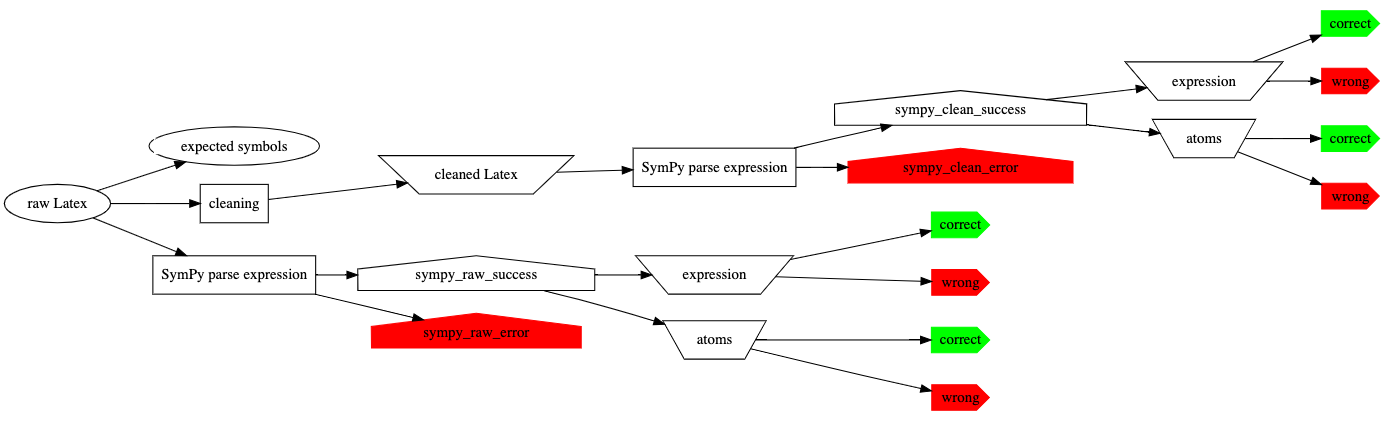
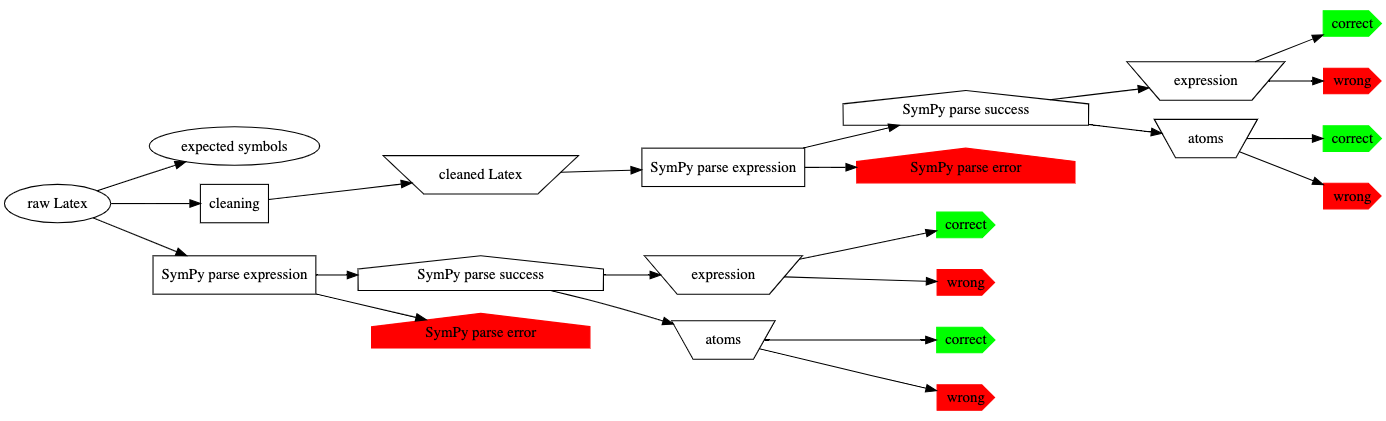
beter picture

diff --git a/decision_tree.README.md b/decision_tree.README.md
@@ -1,4 +1,5 @@
 
 from
 
-https://dreampuf.github.io/GraphvizOnline/#digraph%20G%20%7B%0A%20%20%20%20rankdir%3D%22LR%22%3B%0A%0A%20%20%22raw%20Latex%22%20%5Bshape%3D%22oval%22%5D%3B%20%2F%2F%20manual%0A%20%20%22expected%20symbols%22%20%5Bshape%3D%22oval%22%5D%3B%20%2F%2F%20manual%0A%20%20%0A%20%20%22raw%20Latex%22%20-%3E%20%22expected%20symbols%22%3B%0A%20%20%0A%20%20%22cleaning%22%20%5Bshape%3D%22rectangle%22%5D%3B%20%2F%2F%20action%0A%20%20%0A%20%20%22raw%20Latex%22%20-%3E%20%22cleaning%22%3B%0A%20%0A%20%20%22cleaned%20Latex%22%20%5Bshape%3D%22invtrapezium%22%5D%3B%20%2F%2F%20intermediate%20file%0A%20%20%0A%20%20%22cleaning%22%20-%3E%20%22cleaned%20Latex%22%3B%0A%20%20%0A%20%20sympy_parse_raw%20%5Bshape%3D%22rectangle%22%20label%3D%22SymPy%20parse%20expression%22%5D%3B%20%2F%2F%20action%0A%20%20%0A%20%20%22raw%20Latex%22%20-%3E%20sympy_parse_raw%3B%0A%0A%20%20sympy_parse_clean%20%5Bshape%3D%22rectangle%22%20label%3D%22SymPy%20parse%20expression%22%5D%3B%20%2F%2F%20action%0A%20%0A%20%20%22cleaned%20Latex%22%20-%3E%20%20sympy_parse_clean%3B%0A%0A%20%20sympy_raw_success%20%5Bshape%3D%22house%22%5D%3B%0A%20%20sympy_raw_error%20%5Bshape%3D%22house%22%20style%3Dfilled%20color%3Dred%5D%3B%0A%0A%20%20sympy_parse_raw%20-%3E%20sympy_raw_success%3B%0A%20%20sympy_parse_raw%20-%3E%20sympy_raw_error%3B%0A%0A%20%20sympy_clean_success%20%5Bshape%3D%22house%22%5D%3B%0A%20%20sympy_clean_error%20%5Bshape%3D%22house%22%20style%3Dfilled%20color%3Dred%5D%3B%0A%20%20%0A%20%20sympy_parse_clean%20-%3E%20sympy_clean_success%3B%0A%20%20sympy_parse_clean%20-%3E%20sympy_clean_error%3B%0A%20%20%0A%20%20raw_sympy_expr%20%20%5Blabel%3D%22expression%22%20shape%3D%22invtrapezium%22%5D%3B%20%2F%2F%20intermediate%20file%0A%20%20raw_sympy_atoms%20%20%5Blabel%3D%22atoms%22%20shape%3D%22invtrapezium%22%5D%3B%20%2F%2F%20intermediate%20file%0A%0A%20%20sympy_raw_success%20-%3E%20raw_sympy_expr%3B%0A%20%20sympy_raw_success%20-%3E%20raw_sympy_atoms%3B%0A%0A%20%20clean_sympy_expr%20%20%5Blabel%3D%22expression%22%20shape%3D%22invtrapezium%22%5D%3B%20%2F%2F%20intermediate%20file%0A%20%20clean_sympy_atoms%20%20%5Blabel%3D%22atoms%22%20shape%3D%22invtrapezium%22%5D%3B%20%2F%2F%20intermediate%20file%0A%20%20%0A%20%20sympy_clean_success%20-%3E%20clean_sympy_expr%3B%0A%20%20sympy_clean_success%20-%3E%20clean_sympy_atoms%3B%0A%20%20%0A%20%20sympy_clean_expr_correct%20%5Bshape%3Dcds%20style%3Dfilled%20color%3Dgreen%2C%20label%3D%22correct%22%5D%3B%0A%20%20sympy_clean_expr_wrong%20%5Bshape%3Dcds%20style%3Dfilled%20color%3Dred%2C%20label%3D%22wrong%22%5D%3B%0A%20%0A%20%20clean_sympy_expr%20-%3E%20sympy_clean_expr_correct%3B%0A%20%20clean_sympy_expr%20-%3E%20sympy_clean_expr_wrong%3B%0A%0A%20%20sympy_clean_atoms_correct%20%5Bshape%3Dcds%20style%3Dfilled%20color%3Dgreen%2C%20label%3D%22correct%22%5D%3B%0A%20%20sympy_clean_atoms_wrong%20%5Bshape%3Dcds%20style%3Dfilled%20color%3Dred%2C%20label%3D%22wrong%22%5D%3B%0A%20%0A%20%20clean_sympy_atoms%20-%3E%20sympy_clean_atoms_correct%3B%0A%20%20clean_sympy_atoms%20-%3E%20sympy_clean_atoms_wrong%3B%0A%20%0A%20%20sympy_raw_expr_correct%20%5Bshape%3Dcds%20style%3Dfilled%20color%3Dgreen%2C%20label%3D%22correct%22%5D%3B%0A%20%20sympy_raw_expr_wrong%20%5Bshape%3Dcds%20style%3Dfilled%20color%3Dred%2C%20label%3D%22wrong%22%5D%3B%0A%20%0A%20%20raw_sympy_expr%20-%3E%20sympy_raw_expr_correct%3B%0A%20%20raw_sympy_expr%20-%3E%20sympy_raw_expr_wrong%3B%0A%0A%20%20sympy_raw_atoms_correct%20%5Bshape%3Dcds%20style%3Dfilled%20color%3Dgreen%2C%20label%3D%22correct%22%5D%3B%0A%20%20sympy_raw_atoms_wrong%20%5Bshape%3Dcds%20style%3Dfilled%20color%3Dred%2C%20label%3D%22wrong%22%5D%3B%0A%20%0A%20%20raw_sympy_atoms%20-%3E%20sympy_raw_atoms_correct%3B%0A%20%20raw_sympy_atoms%20-%3E%20sympy_raw_atoms_wrong%3B%0A%20%0A%20%20%0A%7D
+https://dreampuf.github.io/GraphvizOnline/#digraph%20G%20%7B%0A%20%20%20%20rankdir%3D%22LR%22%3B%0A%0A%20%20%22raw%20Latex%22%20%5Bshape%3D%22oval%22%5D%3B%20%2F%2F%20manual%0A%20%20%22expected%20symbols%22%20%5Bshape%3D%22oval%22%5D%3B%20%2F%2F%20manual%0A%20%20%0A%20%20%22raw%20Latex%22%20-%3E%20%22expected%20symbols%22%3B%0A%20%20%0A%20%20%22cleaning%22%20%5Bshape%3D%22rectangle%22%5D%3B%20%2F%2F%20action%0A%20%20%0A%20%20%22raw%20Latex%22%20-%3E%20%22cleaning%22%3B%0A%20%0A%20%20%22cleaned%20Latex%22%20%5Bshape%3D%22invtrapezium%22%5D%3B%20%2F%2F%20intermediate%20file%0A%20%20%0A%20%20%22cleaning%22%20-%3E%20%22cleaned%20Latex%22%3B%0A%20%20%0A%20%20sympy_parse_raw%20%5Bshape%3D%22rectangle%22%20label%3D%22SymPy%20parse%20expression%22%5D%3B%20%2F%2F%20action%0A%20%20%0A%20%20%22raw%20Latex%22%20-%3E%20sympy_parse_raw%3B%0A%0A%20%20sympy_parse_clean%20%5Bshape%3D%22rectangle%22%20label%3D%22SymPy%20parse%20expression%22%5D%3B%20%2F%2F%20action%0A%20%0A%20%20%22cleaned%20Latex%22%20-%3E%20%20sympy_parse_clean%3B%0A%0A%20%20sympy_raw_success%20%5Bshape%3D%22house%22%2C%20label%3D%22SymPy%20parse%20success%22%5D%3B%0A%20%20sympy_raw_error%20%5Bshape%3D%22house%22%20style%3Dfilled%20color%3Dred%2C%20label%3D%22SymPy%20parse%20error%22%5D%3B%0A%0A%20%20sympy_parse_raw%20-%3E%20sympy_raw_success%3B%0A%20%20sympy_parse_raw%20-%3E%20sympy_raw_error%3B%0A%0A%20%20sympy_clean_success%20%5Bshape%3D%22house%22%2C%20label%3D%22SymPy%20parse%20success%22%5D%3B%0A%20%20sympy_clean_error%20%5Bshape%3D%22house%22%20style%3Dfilled%20color%3Dred%2C%20label%3D%22SymPy%20parse%20error%22%5D%3B%0A%20%20%0A%20%20sympy_parse_clean%20-%3E%20sympy_clean_success%3B%0A%20%20sympy_parse_clean%20-%3E%20sympy_clean_error%3B%0A%20%20%0A%20%20raw_sympy_expr%20%20%5Blabel%3D%22expression%22%20shape%3D%22invtrapezium%22%5D%3B%20%2F%2F%20intermediate%20file%0A%20%20raw_sympy_atoms%20%20%5Blabel%3D%22atoms%22%20shape%3D%22invtrapezium%22%5D%3B%20%2F%2F%20intermediate%20file%0A%0A%20%20sympy_raw_success%20-%3E%20raw_sympy_expr%3B%0A%20%20sympy_raw_success%20-%3E%20raw_sympy_atoms%3B%0A%0A%20%20clean_sympy_expr%20%20%5Blabel%3D%22expression%22%20shape%3D%22invtrapezium%22%5D%3B%20%2F%2F%20intermediate%20file%0A%20%20clean_sympy_atoms%20%20%5Blabel%3D%22atoms%22%20shape%3D%22invtrapezium%22%5D%3B%20%2F%2F%20intermediate%20file%0A%20%20%0A%20%20sympy_clean_success%20-%3E%20clean_sympy_expr%3B%0A%20%20sympy_clean_success%20-%3E%20clean_sympy_atoms%3B%0A%20%20%0A%20%20sympy_clean_expr_correct%20%5Bshape%3Dcds%20style%3Dfilled%20color%3Dgreen%2C%20label%3D%22correct%22%5D%3B%0A%20%20sympy_clean_expr_wrong%20%5Bshape%3Dcds%20style%3Dfilled%20color%3Dred%2C%20label%3D%22wrong%22%5D%3B%0A%20%0A%20%20clean_sympy_expr%20-%3E%20sympy_clean_expr_correct%3B%0A%20%20clean_sympy_expr%20-%3E%20sympy_clean_expr_wrong%3B%0A%0A%20%20sympy_clean_atoms_correct%20%5Bshape%3Dcds%20style%3Dfilled%20color%3Dgreen%2C%20label%3D%22correct%22%5D%3B%0A%20%20sympy_clean_atoms_wrong%20%5Bshape%3Dcds%20style%3Dfilled%20color%3Dred%2C%20label%3D%22wrong%22%5D%3B%0A%20%0A%20%20clean_sympy_atoms%20-%3E%20sympy_clean_atoms_correct%3B%0A%20%20clean_sympy_atoms%20-%3E%20sympy_clean_atoms_wrong%3B%0A%20%0A%20%20sympy_raw_expr_correct%20%5Bshape%3Dcds%20style%3Dfilled%20color%3Dgreen%2C%20label%3D%22correct%22%5D%3B%0A%20%20sympy_raw_expr_wrong%20%5Bshape%3Dcds%20style%3Dfilled%20color%3Dred%2C%20label%3D%22wrong%22%5D%3B%0A%20%0A%20%20raw_sympy_expr%20-%3E%20sympy_raw_expr_correct%3B%0A%20%20raw_sympy_expr%20-%3E%20sympy_raw_expr_wrong%3B%0A%0A%20%20sympy_raw_atoms_correct%20%5Bshape%3Dcds%20style%3Dfilled%20color%3Dgreen%2C%20label%3D%22correct%22%5D%3B%0A%20%20sympy_raw_atoms_wrong%20%5Bshape%3Dcds%20style%3Dfilled%20color%3Dred%2C%20label%3D%22wrong%22%5D%3B%0A%20%0A%20%20raw_sympy_atoms%20-%3E%20sympy_raw_atoms_correct%3B%0A%20%20raw_sympy_atoms%20-%3E%20sympy_raw_atoms_wrong%3B%0A%20%0A%20%20%0A%7D
+

diff --git a/README.md b/README.md
@@ -1,8 +1,6 @@
 
 ![alt text](https://raw.githubusercontent.com/allofphysicsgraph/latex-example-expressions/master/decision_tree.png)
 
-![alt test](/assets/images/decision_tree.png)
-
 Explanation of files in this repo:
 
 # manually created files
